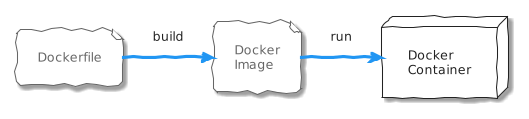
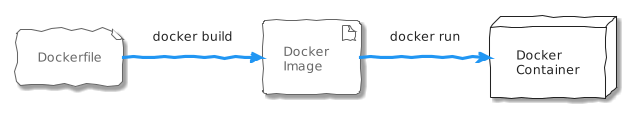
Deploying to gh-pages from  @ 57b71ae4791a0bdddca7645fc58b8a1849aa9556 🚀

Changed region(s): [[0.0, 0.1261, 0.9981, 0.8824], [0.8771, 0.8571, 0.9376, 0.8824]]

diff --git a/dockerfile.html b/dockerfile.html
@@ -575,13 +575,10 @@ pre.rouge .hll * {
 <ul class="sectlevel1">
 <li><a href="#_grundlagen">1. Grundlagen</a></li>
 <li><a href="#_dockerfile">2. Dockerfile</a></li>
-<li><a href="#_from">3. FROM</a>
-<ul class="sectlevel2">
-<li><a href="#_beispiel_1">3.1. Beispiel 1</a></li>
-<li><a href="#_beispiel_2">3.2. Beispiel 2</a></li>
-<li><a href="#_beispiel_3">3.3. Beispiel 3</a></li>
-</ul>
-</li>
+<li><a href="#_from">3. FROM</a></li>
+<li><a href="#_beispiel_1">4. Beispiel 1</a></li>
+<li><a href="#_beispiel_2">5. Beispiel 2</a></li>
+<li><a href="#_beispiel_3">6. Beispiel 3</a></li>
 </ul>
 </div>
 </div>
@@ -644,7 +641,7 @@ pre.rouge .hll * {
 </div>
 <div class="imageblock">
 <div class="content">
-<img src="images/build-image.png" alt="build image" width="529" height="119">
+<img src="images/build-image.png" alt="build image" width="638" height="119">
 </div>
 </div>
 <div class="ulist">
@@ -721,8 +718,11 @@ pre.rouge .hll * {
 <span class="o">}</span></code></pre>
 </div>
 </div>
-<div class="sect2">
-<h3 id="_beispiel_1"><a class="anchor" href="#_beispiel_1"></a>3.1. Beispiel 1</h3>
+</div>
+</div>
+<div class="sect1">
+<h2 id="_beispiel_1"><a class="anchor" href="#_beispiel_1"></a>4. Beispiel 1</h2>
+<div class="sectionbody">
 <div class="listingblock">
 <div class="content">
 <pre class="rouge highlight"><code data-lang="dockerfile"><span class="k">FROM</span><span class="s"> openjdk:latest </span><i class="conum" data-value="1"></i><b>(1)</b>
@@ -776,8 +776,10 @@ pre.rouge .hll * {
 </div>
 </div>
 </div>
-<div class="sect2">
-<h3 id="_beispiel_2"><a class="anchor" href="#_beispiel_2"></a>3.2. Beispiel 2</h3>
+</div>
+<div class="sect1">
+<h2 id="_beispiel_2"><a class="anchor" href="#_beispiel_2"></a>5. Beispiel 2</h2>
+<div class="sectionbody">
 <div class="ulist">
 <ul>
 <li>
@@ -832,8 +834,10 @@ pre.rouge .hll * {
 </table>
 </div>
 </div>
-<div class="sect2">
-<h3 id="_beispiel_3"><a class="anchor" href="#_beispiel_3"></a>3.3. Beispiel 3</h3>
+</div>
+<div class="sect1">
+<h2 id="_beispiel_3"><a class="anchor" href="#_beispiel_3"></a>6. Beispiel 3</h2>
+<div class="sectionbody">
 <div class="listingblock">
 <div class="title">index.html</div>
 <div class="content">
@@ -891,11 +895,10 @@ docker run --rm \
 </div>
 </div>
 </div>
-</div>
 <div id="footer">
 <div id="footer-text">
 Version 2.0.0<br>
-Last updated 2023-04-08 17:03:52 UTC
+Last updated 2023-04-08 17:10:57 UTC
 </div>
 </div>
 </body>

diff --git a/docker-jenkins.html b/docker-jenkins.html
@@ -1877,7 +1877,7 @@ git push origin master</code></pre>
 <div id="footer">
 <div id="footer-text">
 Version 1.0.0<br>
-Last updated 2023-04-08 17:03:52 UTC
+Last updated 2023-04-08 17:10:57 UTC
 </div>
 </div>
 </body>

diff --git a/docker.html b/docker.html
@@ -1056,7 +1056,7 @@ das Netzwerk des Hosts direkt</p>
 <div id="footer">
 <div id="footer-text">
 Version 2.0.0<br>
-Last updated 2023-04-08 17:03:52 UTC
+Last updated 2023-04-08 17:10:57 UTC
 </div>
 </div>
 </body>

diff --git a/schilf-stropek-2020-10-12.html b/schilf-stropek-2020-10-12.html
@@ -2278,7 +2278,7 @@ http {
 <div id="footer">
 <div id="footer-text">
 Version {project-version}<br>
-Last updated 2023-04-08 17:03:52 UTC
+Last updated 2023-04-08 17:10:57 UTC
 </div>
 </div>
 </body>

diff --git a/docker-compose.html b/docker-compose.html
@@ -732,7 +732,7 @@ pre.rouge .hll * {
 <div id="footer">
 <div id="footer-text">
 Version 1.0.0<br>
-Last updated 2023-04-08 17:03:52 UTC
+Last updated 2023-04-08 17:10:57 UTC
 </div>
 </div>
 </body>

diff --git a/docker-deployment.html b/docker-deployment.html
@@ -473,7 +473,7 @@ pre.rouge .hll * {
 <div id="footer">
 <div id="footer-text">
 Version 1.0.0<br>
-Last updated 2023-04-08 17:03:52 UTC
+Last updated 2023-04-08 17:10:57 UTC
 </div>
 </div>
 </body>

diff --git a/index.html b/index.html
@@ -550,7 +550,7 @@ pre.rouge .hll * {
 <div id="footer">
 <div id="footer-text">
 Version 1.0.0<br>
-Last updated 2023-04-08 17:03:52 UTC
+Last updated 2023-04-08 17:10:57 UTC
 </div>
 </div>
 </body>
